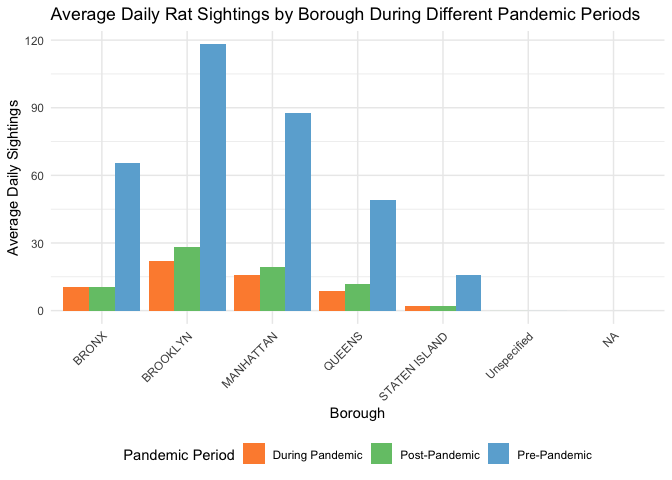
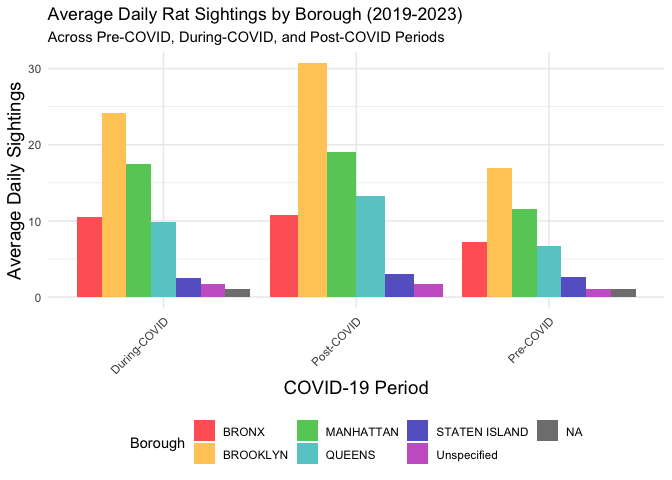
complete rat czar and covid-19 plots

diff --git a/finalproject_graphs.md b/finalproject_graphs.md
@@ -282,3 +282,67 @@ The data indicates that the pandemic may have had a significant and
 enduring impact on rat sighting dynamics in the city, warranting further
 investigation into urban wildlife patterns and public health
 implications in the post-pandemic era.
+
+``` r
+# Grouping data by borough, period, and date, then calculating the average daily sightings
+borough_period_sightings <- analysis_data %>%
+  group_by(Borough, Period, Date = as.Date(Created_Date)) %>%
+  summarise(Daily_Count = n(), .groups = 'drop') %>%
+  group_by(Borough, Period) %>%
+  summarise(Avg_Daily_Sightings = mean(Daily_Count), .groups = 'drop')
+
+# Define a color palette
+colors <- c("#FF6666", "#FFCC66", "#66CC66", "#66CCCC", "#6666CC", "#CC66CC", "#000000")
+
+# Assign colors to boroughs
+borough_colors <- setNames(colors, unique(borough_period_sightings$Borough))
+
+# Plot with the selected color palette
+ggplot(borough_period_sightings, aes(x = Period, y = Avg_Daily_Sightings, fill = Borough)) +
+  geom_bar(stat = "identity", position = "dodge") +
+  scale_fill_manual(values = borough_colors) +
+  theme_minimal() +
+  theme(
+    axis.text.x = element_text(angle = 45, vjust = 1, hjust=1),
+    axis.title = element_text(size = 14),
+    legend.position = "bottom"
+  ) +
+  labs(
+    title = 'Average Daily Rat Sightings by Borough (2019-2023)',
+    subtitle = "Across Pre-COVID, During-COVID, and Post-COVID Periods",
+    x = 'COVID-19 Period',
+    y = 'Average Daily Sightings',
+    fill = 'Borough'
+  )
+```
+
+![](finalproject_graphs_files/figure-gfm/unnamed-chunk-5-1.png)<!-- -->
+
+### Interpretation of the Average Daily Rat Sightings by Borough
+
+The bar chart compares average daily rat sightings in New York City by
+borough, across three different periods: Pre-COVID, During-COVID, and
+Post-COVID. Each borough is distinctly colored, allowing for an easy
+visual comparison.
+
+- **During-COVID**: Brooklyn shows the highest average daily rat
+  sightings among all boroughs, indicating that this borough may have
+  experienced the greatest impact from pandemic-related changes. These
+  changes could include disruptions in waste management and alterations
+  in human activity that could affect rat behavior.
+
+- **Post-COVID**: While there is a general decrease in sightings in the
+  Post-COVID period compared to During-COVID, the number of sightings
+  remains higher than in the Pre-COVID period. This suggests that some
+  of the factors affecting rat sightings during the pandemic may
+  continue to influence these numbers.
+
+- **Pre-COVID**: This period serves as a baseline, showing the average
+  daily sightings before the pandemic began. All boroughs have
+  relatively lower sightings compared to During-COVID, reflecting the
+  typical urban rat activity.
+
+This visual analysis underscores the impact of the COVID-19 pandemic on
+rat sightings in New York City, particularly in Brooklyn. It also
+prompts further investigation into the enduring effects of the pandemic
+on urban wildlife and the efficacy of control measures post-pandemic.
